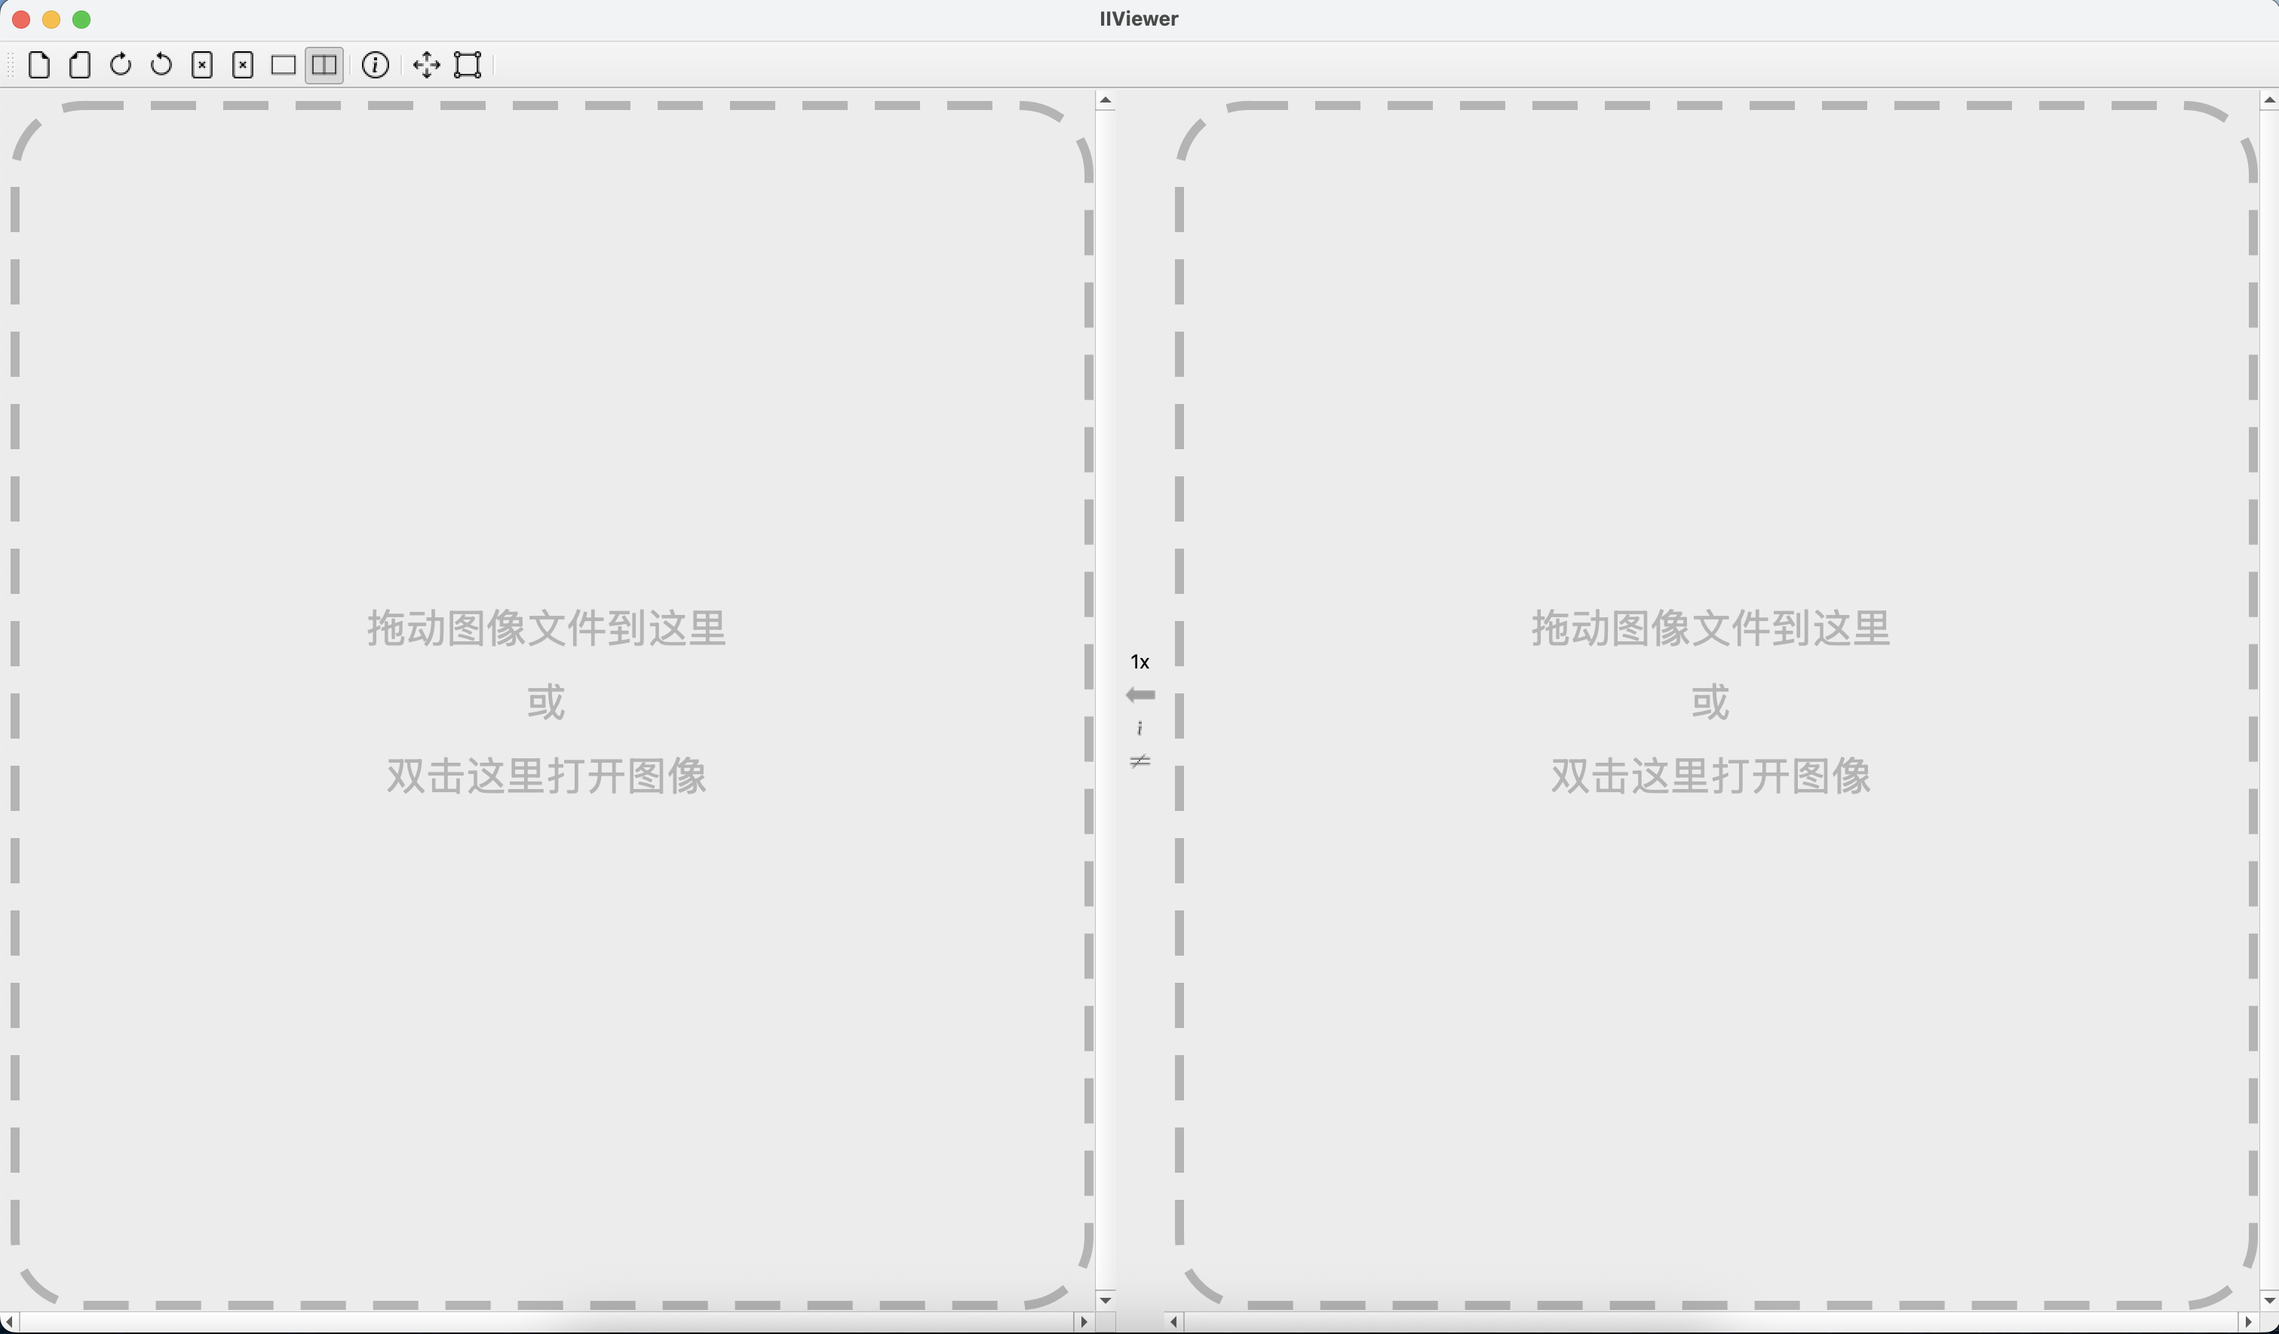
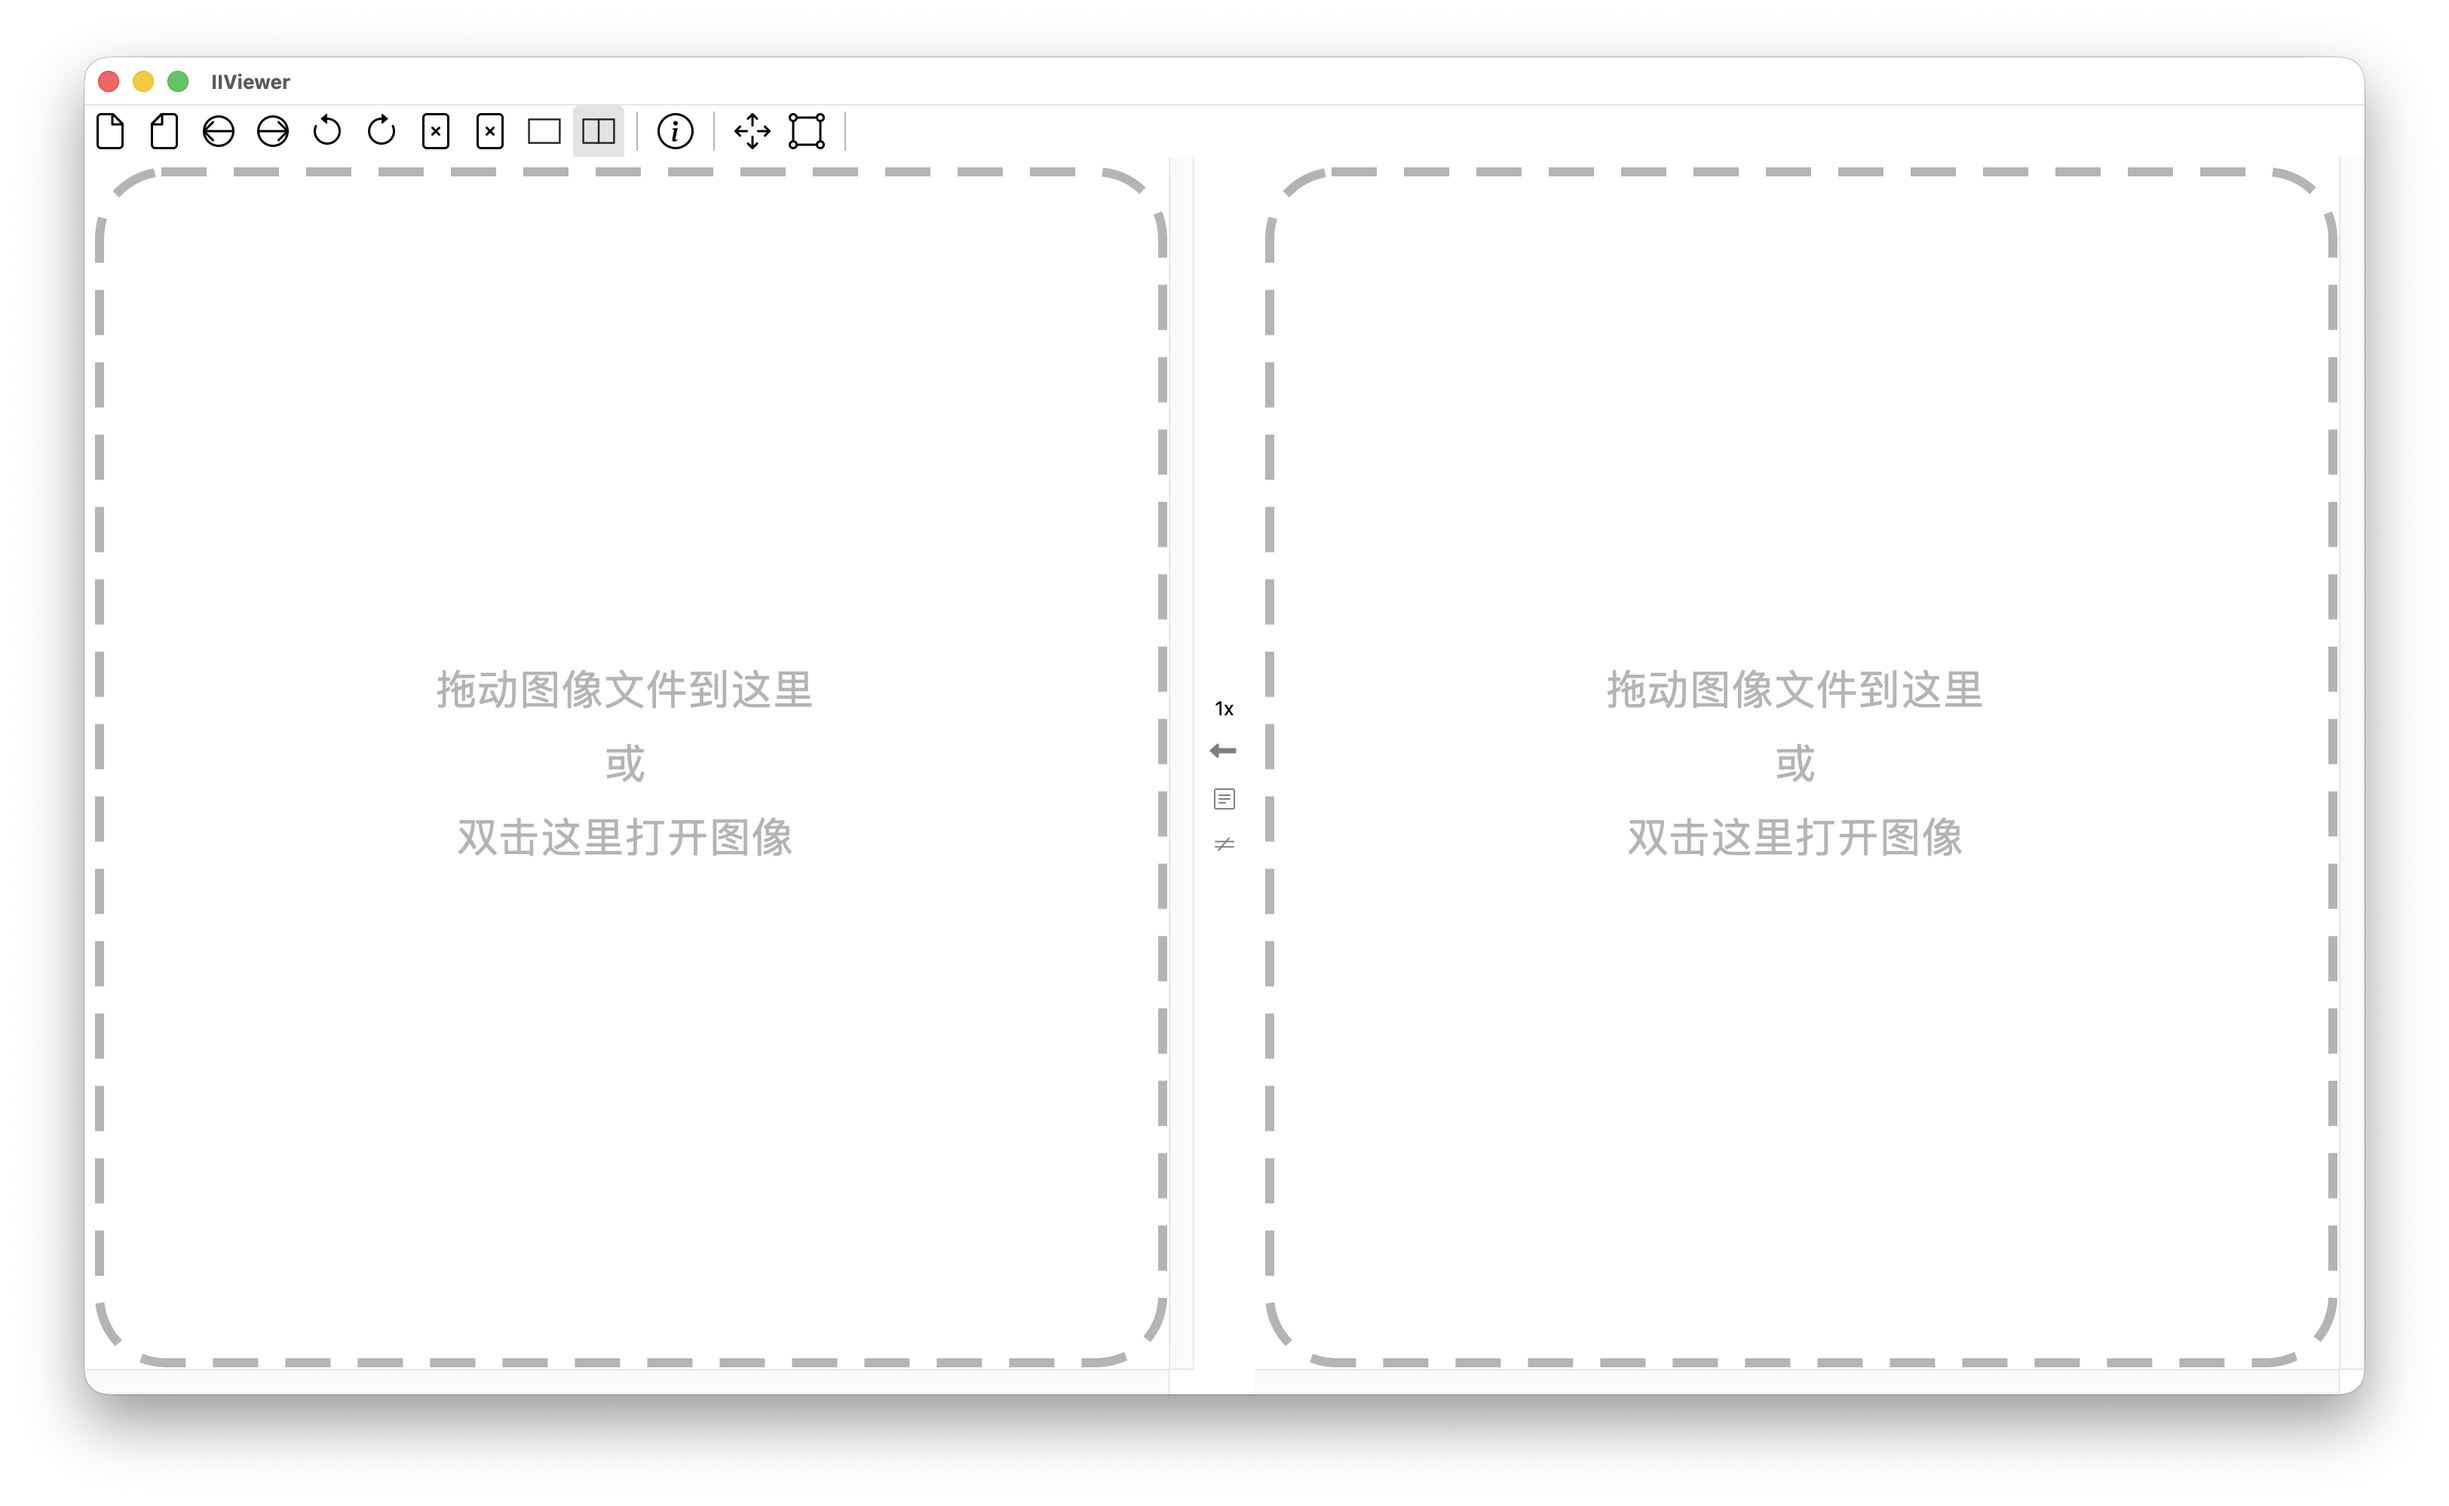
update readme, new readme for chinese

diff --git a/README.zh-CN.md b/README.zh-CN.md
@@ -1,0 +1,78 @@
+<h1 align="center">IIViewer</h1>
+<p align="center">
+    <strong>一款为图像信号处理（ISP）开发者设计的贴心工具</strong>
+</p>
+<p align="center">
+    <img src="./icon/64.png" alt="IIViewer icon" width="64"/>
+</p>
+
+<p align="center">
+    <img src="https://github.com/JonahZeng/IIViewer/actions/workflows/cmake-windows-platform.yml/badge.svg?branch=main" alt="Windows Build"/>
+    <img src="https://github.com/JonahZeng/IIViewer/actions/workflows/cmake-ubuntu-platform.yml/badge.svg?branch=main" alt="Ubuntu Build"/>
+    <img src="https://github.com/JonahZeng/IIViewer/actions/workflows/cmake-macos-platform.yml/badge.svg?branch=main" alt="MacOS Build"/>
+    <a href="https://appimage.github.io/IIViewer/">
+        <img src="https://img.shields.io/badge/listed-AppImageHub-be5137?logo=appimage&logoColor=white" alt="IIViewer on AppImageHub"/>
+    </a>
+    <a href="https://github.com/microsoft/winget-pkgs/tree/master/manifests/j/JonahZeng/IIViewer">
+        <img src="https://img.shields.io/badge/winget-JonahZeng.IIViewer-0078D7?logo=windows&logoColor=white" alt="Install via winget"/>
+    </a>
+</p>
+
+<p align="center">
+    <a href="./README.md">English</a> | 简体中文
+</p>
+
+## 简介
+
+本图像查看器用于打开、查看和对比 ISP 中间图像，支持以下格式：
+
+|格式|详情|
+|:--:|:--:|
+|jpg/bmp/png/tiff|仅支持 baseline jpg，8bit|
+|pgm|8/10/12/14/16 bit|
+|pnm|8/10/12/14/16 bit|
+|raw|8/10/12/14/16/18/20/22/24 bit|
+|mipi-raw|10/12/14 bit|
+|rgbir-raw|8/10/12/14/16/18/20/22/24 bit|
+|dng|(CFA Bayer + 未压缩) 由 DJI pocket 4 拍摄，(LinearRaw + LossJPEG 压缩) 由 iPhone 13 pro 拍摄|
+|yuv|8/10/12，444-交织/444-平面/422-UYVY/422-YUYV/420-NV12/420-NV21/420P-YU12/420P-YV12/400|
+|heif|yuv420/422/444 8bit|
+
+## 使用方法
+
+预编译的二进制文件可在 [release 页面](https://github.com/JonahZeng/IIViewer/releases) 下载：
+
+|系统|架构|安装包|
+|:--:|:--:|:--|
+|Windows 10/11|x86_64|`.exe` 安装程序、`.msi`、绿色版 `.zip`|
+|Ubuntu 22.04+|x86_64|`.deb`、`.AppImage`（附带用于增量更新的 `.zsync`）|
+|Ubuntu 24.04+|arm64|`.deb`、`.AppImage`（附带用于增量更新的 `.zsync`）|
+|macOS|arm64（Apple Silicon）|`.dmg`|
+
+对于 Windows 10/11 用户，winget 是最便捷的安装方式，只需运行命令 `winget install JonahZeng.IIViewer`。
+
+启动应用后，将任意支持的图像文件拖拽到窗口中即可：
+
+![windows-main-ui](./doc/image/main-ui.png)
+
+![ubuntu-zh-ui](./doc/image/ubuntu-zh.png)
+
+![macos-zh-ui](./doc/image/macos-zh.png)
+
+将任意支持格式的图像拖拽到虚线矩形区域，即可显示图像内容。滚动鼠标滚轮将图像放大至 96 倍，即可查看每个像素的真实数值。
+
+> **Qt5 用户**：`qt5` 分支保留了最后一个兼容 Qt5 的版本。如果无法迁移，请查看 [qt5 分支](https://github.com/JonahZeng/IIViewer/tree/qt5) 和 [qt5 release](https://github.com/JonahZeng/IIViewer/releases/tag/v0.6.8)。
+
+## 构建
+
+构建说明和开发环境搭建请参阅 [CONTRIBUTING.md](CONTRIBUTING.md)。
+
+## Windows 上的 HiDPI 字体渲染
+
+如果在高 DPI 的 4K 显示器上看到文字边缘有锯齿，可将环境变量 `QT_QPA_PLATFORM` 设置为 `windows:fontengine=freetype` 并重启应用即可解决。
+
+## 赞助
+
+微信支付：
+
+![sponsor](./doc/image/sponsor.png)

diff --git a/README.md b/README.md
@@ -18,6 +18,10 @@
     </a>
 </p>
 
+<p align="center">
+    English | <a href="./README.zh-CN.md">简体中文</a>
+</p>
+
 ## About
 
 This image viewer is designed for open, view and compare ISP intermediate image. We support these formats:
@@ -36,9 +40,18 @@ This image viewer is designed for open, view and compare ISP intermediate image.
 
 ## Usage
 
+Pre-compiled binaries are available on the [release page](https://github.com/JonahZeng/IIViewer/releases):
+
+|OS|Architecture|Packages|
+|:--:|:--:|:--|
+|Windows 10/11|x86_64|`.exe` installer, `.msi`, portable `.zip`|
+|Ubuntu 22.04+|x86_64|`.deb`, `.AppImage` (with `.zsync` for delta updates)|
+|Ubuntu 24.04+|arm64|`.deb`, `.AppImage` (with `.zsync` for delta updates)|
+|macOS|arm64 (Apple Silicon)|`.dmg`|
+
 For windows 10/11 user, winget is the most convenient install method, just run command `winget install JonahZeng.IIViewer`.
 
-Download pre-compiled binary file from the [release page](https://github.com/JonahZeng/IIViewer/releases) (we provide x64 exe, deb, AppImage, and arm64 dmg). Start the app and drag any supported image file onto the window:
+Start the app and drag any supported image file onto the window:
 
 ![windows-main-ui](./doc/image/main-ui.png)
 
